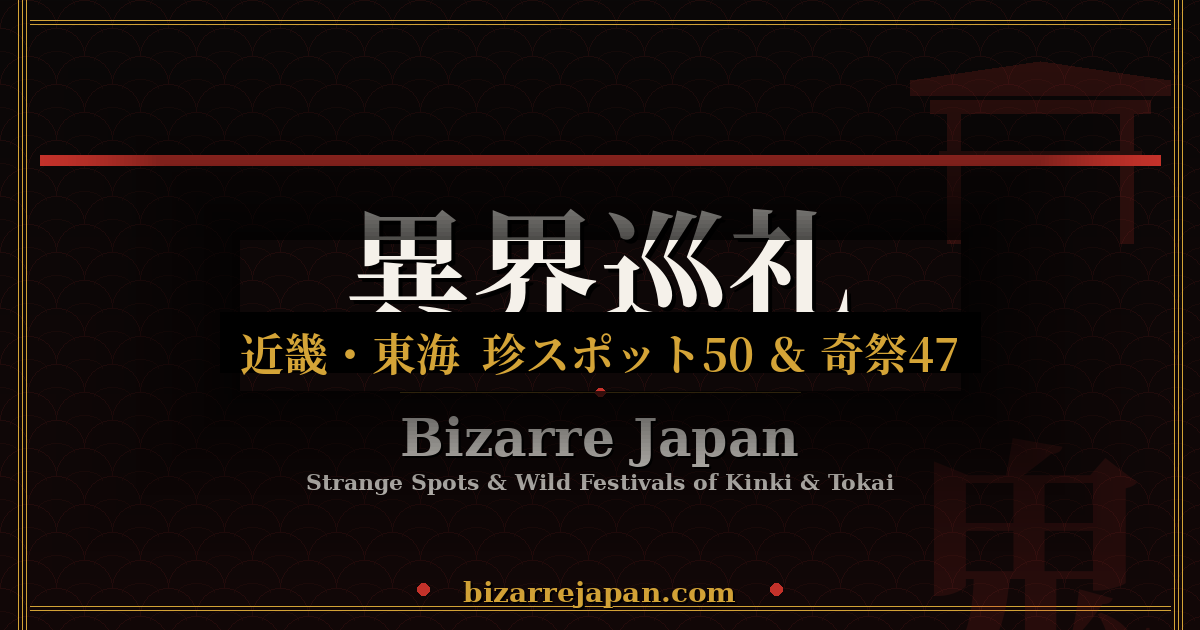
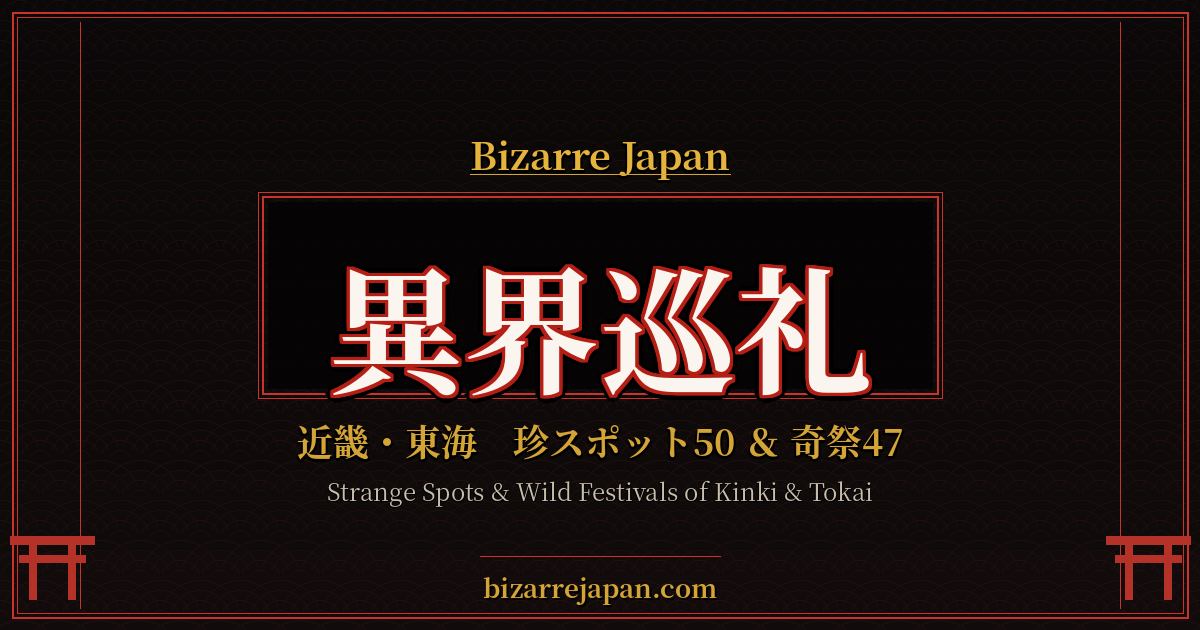
Polish: GitHub Issues form, press kit, links page, GA4 placeholder, OGP refinement

Changed region(s): [[0.0, 0.0, 1.0, 0.9952], [0.7708, 0.4222, 0.8017, 0.4524], [0.7708, 0.3619, 0.8017, 0.3921]]

diff --git a/links.html b/links.html
@@ -1,0 +1,107 @@
+<!DOCTYPE html>
+<html lang="ja">
+<head>
+<meta charset="UTF-8" />
+<meta name="viewport" content="width=device-width, initial-scale=1.0" />
+<title>関連サイト・コラボ — 異界巡礼 | Bizarre Japan</title>
+<meta name="description" content="異界巡礼が敬意を払うパートナーサイト・関連メディア・参考資料リンク集。Strange Japan travel allies and references." />
+<link rel="canonical" href="https://bizarrejapan.com/links.html" />
+<meta property="og:title" content="関連サイト・コラボ — 異界巡礼" />
+<meta property="og:description" content="異界巡礼の関連サイト・参考メディア集。" />
+<meta property="og:image" content="https://bizarrejapan.com/og-image.png" />
+<meta property="og:url" content="https://bizarrejapan.com/links.html" />
+<link rel="icon" type="image/png" sizes="32x32" href="favicon-32.png" />
+<link rel="apple-touch-icon" sizes="180x180" href="favicon-180.png" />
+<link rel="preconnect" href="https://fonts.googleapis.com" />
+<link rel="preconnect" href="https://fonts.gstatic.com" crossorigin />
+<link href="https://fonts.googleapis.com/css2?family=Shippori+Mincho:wght@400;600;800&family=Noto+Serif+JP:wght@400;700&family=Cinzel:wght@500;700&display=swap" rel="stylesheet" />
+<link rel="stylesheet" href="style.css" />
+<style>
+  .links-wrap{max-width:980px;margin:0 auto;padding:80px 24px 120px}
+  .links-wrap h1{font-size:clamp(2.4rem,5vw,4rem);margin:0 0 .4em;line-height:1.1}
+  .links-wrap h2{font-size:1.6rem;margin:48px 0 16px;padding-bottom:8px;border-bottom:1px solid var(--ink-border, #2a2424)}
+  .links-wrap p.lead{font-size:1.1rem;color:var(--ink-soft,#b0a8a4);margin-bottom:32px;line-height:1.7}
+  .link-card{display:block;padding:18px 20px;margin:12px 0;border:1px solid var(--ink-border, #2a2424);border-radius:6px;text-decoration:none;color:inherit;transition:all .2s}
+  .link-card:hover{border-color:var(--accent,#c83a3a);background:rgba(200,58,58,.04);transform:translateX(4px)}
+  .link-card .lc-title{font-weight:700;font-size:1.15rem;margin:0 0 4px}
+  .link-card .lc-desc{font-size:.95rem;color:var(--ink-soft,#b0a8a4);line-height:1.5;margin:0}
+  .link-card .lc-tag{display:inline-block;font-size:.75rem;background:rgba(200,58,58,.15);color:var(--accent,#c83a3a);padding:2px 8px;border-radius:3px;margin-left:8px;vertical-align:middle}
+  .links-back{display:inline-block;margin-top:40px;color:var(--accent,#c83a3a);text-decoration:none;font-weight:600}
+  .links-back:hover{text-decoration:underline}
+</style>
+</head>
+<body data-theme="dark">
+
+<div class="links-wrap">
+  <a class="links-back" href="/">← 異界巡礼トップへ戻る</a>
+  <h1>関連サイト・コラボ</h1>
+  <p class="lead">異界巡礼が敬意を払うパートナー、参考メディア、姉妹プロジェクト。<br>
+  Strange-Japan travel allies, sources of inspiration, and partner projects.</p>
+
+  <h2>姉妹サイト・コラボパートナー</h2>
+  <a class="link-card" href="https://www.tokyobs.jp/" target="_blank" rel="noopener">
+    <p class="lc-title">東京別視点ガイド <span class="lc-tag">先輩サイト</span></p>
+    <p class="lc-desc">珍スポット文化の元祖。松澤茂信氏による全国の異色観光スポット紹介。</p>
+  </a>
+  <a class="link-card" href="https://omatsurijapan.com/" target="_blank" rel="noopener">
+    <p class="lc-title">オマツリジャパン <span class="lc-tag">奇祭の宝庫</span></p>
+    <p class="lc-desc">日本全国の祭りデータベース。奇祭・伝統行事の網羅性で随一。</p>
+  </a>
+  <a class="link-card" href="https://www.atlasobscura.com/" target="_blank" rel="noopener">
+    <p class="lc-title">Atlas Obscura <span class="lc-tag">海外姉妹</span></p>
+    <p class="lc-desc">世界の珍しい場所を集めるグローバルなプラットフォーム。本サイトの英語版エントリの文体的なリファレンス。</p>
+  </a>
+
+  <h2>参考メディア・出典</h2>
+  <a class="link-card" href="https://commons.wikimedia.org/" target="_blank" rel="noopener">
+    <p class="lc-title">Wikimedia Commons</p>
+    <p class="lc-desc">サイト掲載写真の主たる出典。各画像のクレジットは詳細モーダル内に明記。</p>
+  </a>
+  <a class="link-card" href="https://ja.wikipedia.org/" target="_blank" rel="noopener">
+    <p class="lc-title">Wikipedia 日本語版</p>
+    <p class="lc-desc">スポット・祭礼の沿革記述における基礎資料。</p>
+  </a>
+  <a class="link-card" href="https://www.japanvisitor.com/" target="_blank" rel="noopener">
+    <p class="lc-title">Japan Visitor</p>
+    <p class="lc-desc">英語圏向け日本観光情報サイト。地方の細かい祭礼情報も豊富。</p>
+  </a>
+
+  <h2>地域パートナー（亀山・三重・東海）</h2>
+  <a class="link-card" href="https://www.kameyama-cci.or.jp/" target="_blank" rel="noopener">
+    <p class="lc-title">亀山商工会議所</p>
+    <p class="lc-desc">三重県亀山市を中心とした商工業振興団体。本サイト運営者は青年部（YEG）会長。</p>
+  </a>
+  <a class="link-card" href="https://www.kankomie.or.jp/" target="_blank" rel="noopener">
+    <p class="lc-title">観光三重</p>
+    <p class="lc-desc">三重県観光連盟の公式サイト。県内観光資源の総合インデックス。</p>
+  </a>
+  <a class="link-card" href="https://www.aichi-now.jp/" target="_blank" rel="noopener">
+    <p class="lc-title">Aichi Now</p>
+    <p class="lc-desc">愛知県観光協会公式。田縣神社など本サイト掲載スポットの公式情報源。</p>
+  </a>
+
+  <h2>研究・学術リソース</h2>
+  <a class="link-card" href="https://nichibun.ac.jp/" target="_blank" rel="noopener">
+    <p class="lc-title">国際日本文化研究センター（日文研）</p>
+    <p class="lc-desc">怪異・妖怪・民俗データベースを公開。本サイトの民俗学的記述の参考。</p>
+  </a>
+  <a class="link-card" href="https://www.rekihaku.ac.jp/" target="_blank" rel="noopener">
+    <p class="lc-title">国立歴史民俗博物館</p>
+    <p class="lc-desc">日本の祭礼・年中行事の体系的研究機関。</p>
+  </a>
+
+  <h2>プレス・メディア向け</h2>
+  <a class="link-card" href="press-kit.md" target="_blank">
+    <p class="lc-title">📰 プレスキット（英語） / Press Kit</p>
+    <p class="lc-desc">国際メディア向けに整理されたサイト概要・取材向けストーリーアングル・素材。</p>
+  </a>
+  <a class="link-card" href="https://github.com/tydmthr/kinki-tokai-chinspot/issues/new" target="_blank" rel="noopener">
+    <p class="lc-title">取材・コラボ依頼 / Press Inquiries</p>
+    <p class="lc-desc">GitHub Issues 経由でお気軽にご連絡ください。</p>
+  </a>
+
+  <a class="links-back" href="/">← 異界巡礼トップへ戻る</a>
+</div>
+
+</body>
+</html>

diff --git a/index.html b/index.html
@@ -88,6 +88,19 @@
 <link rel="stylesheet" href="https://cdn.jsdelivr.net/npm/@phosphor-icons/web@2.1.1/src/fill/style.css" />
 
 <link rel="stylesheet" href="style.css" />
+
+<!-- Google Analytics 4 (GA4) - 有効化するには下記の G-XXXXXXXXXX を実際の Measurement ID に置き換えてください -->
+<!--
+<script async src="https://www.googletagmanager.com/gtag/js?id=G-XXXXXXXXXX"></script>
+<script>
+  window.dataLayer = window.dataLayer || [];
+  function gtag(){dataLayer.push(arguments);}
+  gtag('js', new Date());
+  gtag('config', 'G-XXXXXXXXXX', { 'anonymize_ip': true });
+</script>
+-->
+
+<!-- Google Search Console: HTMLタグ認証する場合、ここに <meta name="google-site-verification" content="xxxxx" /> を貼ってください -->
 </head>
 <body data-theme="dark" data-lang="ja">
 
@@ -298,7 +311,7 @@
     <div class="footer-col">
       <h4 data-i18n="footer.share">情報提供・寄稿</h4>
       <p data-i18n-html="footer.shareBody">あなたの知る奇異な場所、参加した奇祭の体験談を募集しています。</p>
-      <a class="footer-cta" id="submitForm" href="#" target="_blank" rel="noopener"><i class="ph ph-paper-plane-tilt"></i><span data-i18n="footer.submit">情報を寄せる</span></a>
+      <a class="footer-cta" id="submitForm" href="https://github.com/tydmthr/kinki-tokai-chinspot/issues/new?labels=spot-submission&template=spot-submission.md&title=%5B%E6%96%B0%E3%82%B9%E3%83%9D%E3%83%83%E3%83%88%5D+" target="_blank" rel="noopener"><i class="ph ph-paper-plane-tilt"></i><span data-i18n="footer.submit">情報を寄せる</span></a>
     </div>
     <div class="footer-col">
       <h4 data-i18n="footer.collabs">関連サイト</h4>
@@ -307,6 +320,8 @@
         <li><a href="https://omatsurijapan.com/" target="_blank" rel="noopener">オマツリジャパン</a></li>
         <li><a href="https://www.atlasobscura.com/" target="_blank" rel="noopener">Atlas Obscura</a></li>
         <li><a href="https://commons.wikimedia.org/" target="_blank" rel="noopener">Wikimedia Commons</a></li>
+        <li><a href="links.html">→ 関連サイト一覧 / All Links</a></li>
+        <li><a href="press-kit.md" target="_blank">📰 Press Kit (EN)</a></li>
       </ul>
     </div>
   </div>

diff --git a/app.js b/app.js
@@ -831,18 +831,11 @@ function handleUrlParams() {
 }
 
 // ============ Submit Form Link ============
-const submitFormUrl = 'https://docs.google.com/forms/d/e/PLACEHOLDER/viewform'; // 後で本物のFormsに置き換え
+// GitHub Issues template-based submission (no auth wall, multilingual, version-controlled)
+const submitFormUrl = 'https://github.com/tydmthr/kinki-tokai-chinspot/issues/new?labels=spot-submission&template=spot-submission.md&title=%5B%E6%96%B0%E3%82%B9%E3%83%9D%E3%83%83%E3%83%88%5D+';
 const submitBtn = document.getElementById('submitForm');
 if (submitBtn) {
   submitBtn.href = submitFormUrl;
-  submitBtn.addEventListener('click', e => {
-    if (submitFormUrl.includes('PLACEHOLDER')) {
-      e.preventDefault();
-      const subject = encodeURIComponent('[Bizarre Japan] 情報提供 / Submission');
-      const body = encodeURIComponent('発見した珍スポット・奇祭の情報を以下にお書きください：\n\n名称：\n所在地：\n概要：\n参考URL：\n\n---\nWhat strange spot or festival did you find?\n\nName:\nLocation:\nDescription:\nReference URL:\n');
-      location.href = `mailto:bizarrejapan@example.com?subject=${subject}&body=${body}`;
-    }
-  });
 }
 
 // ============ Refresh hook for language toggle ============

diff --git a/press-kit.md b/press-kit.md
@@ -1,0 +1,111 @@
+# Bizarre Japan / 異界巡礼 — Press Kit
+
+> **Strange Spots & Wild Festivals of Kinki & Tokai, Japan**
+> An independent travel guide curating 50 of the most bizarre destinations and 47 of the wildest folk festivals in central Japan.
+
+**Website:** [bizarrejapan.com](https://bizarrejapan.com/)
+**Languages:** Japanese / English
+**Contact:** via GitHub Issues — [github.com/tydmthr/kinki-tokai-chinspot](https://github.com/tydmthr/kinki-tokai-chinspot)
+**Status:** Independent, non-commercial, ad-free
+
+---
+
+## What is Bizarre Japan?
+
+Bizarre Japan is a curated atlas of Japan's most surreal, sacred, profane, and unforgettable places — the kind of destinations that *aren't* in your average guidebook. From the phallic shrines of Aichi to the man-eating turtle festivals of Kyoto, from underground pyramids in Nara to a UFO landing pad in Mie, the site documents the country's hidden landscape of folk religion, B-grade roadside attractions, post-war ruins, and ancient agricultural fertility rites that survive into the 21st century.
+
+It is the work of an independent curator based in **Kameyama, Mie Prefecture**, drawing on deep local knowledge of Kinki and Tokai region culture.
+
+---
+
+## Editorial Stance
+
+- **Reverence over snark.** Even the strangest sites are treated as living cultural heritage, not as curiosities for ridicule.
+- **Local voice.** Curated by a resident of central Japan with insider perspective on regional identity, dialect, and customs.
+- **No paid placements, no sponsored content, no affiliate links.**
+- **Bilingual from day one.** Every spot and festival has both a Japanese and a literary English entry written in an Atlas Obscura–inspired voice.
+
+---
+
+## What Makes It Different
+
+| | Bizarre Japan | Typical travel site |
+|---|---|---|
+| Focus | Strange, sacred, surreal — the *yō no naka* underbelly | Top-10 photogenic spots |
+| Voice | Literary, anthropological | Listicle |
+| Coverage | 50 spots + 47 festivals (97 entries) | Variable |
+| Geography | **Hyper-local**: Kinki + Tokai only | National, broad-brush |
+| Source language | Japanese-native, English-translated | English-first |
+| Festivals | Includes precise dates, ritual context, danger ratings | Often omitted |
+
+---
+
+## Coverage Highlights
+
+### Spots (excerpt)
+- **田縣神社** (Aichi) — The annual penis festival drawing 100,000 visitors and a 2.5m wooden phallus paraded through town
+- **金山巨石群** (Gifu) — Solar-aligned megalithic structure rumored to be a Jōmon-era astronomical observatory
+- **池田町UFO物産館** (Hyogo) — Government-built UFO contact center, complete with landing pad and ESP scanner
+- **椿大神社の異界石** (Mie) — Sacred grove ringed by stones said to mark the boundary of the spirit world
+
+### Festivals (excerpt)
+- **国府宮はだか祭** (Aichi, Feb) — 9,000 men in loincloths fight to touch the "shin-otoko" — touching him transfers your bad luck
+- **吉田の火祭り** (Yamanashi, Aug — included by extension) — 3-meter pine torches lit along an entire town
+- **おんだ祭** (Nara, Feb) — Public mock-fertility ritual at Asuka Shrine, performed for 1,300 years
+- **無言詣り** (Kyoto, Aug) — Silent night-pilgrimage at Yasaka — speak one word and your wish dies
+
+---
+
+## Visual & Editorial Assets Available
+
+- 1200×630 OGP card (CC-BY) → [og-image.png](https://bizarrejapan.com/og-image.png)
+- Curator portrait (on request)
+- 50 + 47 entry photos (Wikimedia Commons, properly credited)
+- Pre-written 200-word and 500-word feature briefs in JP/EN
+- Interactive map embed code (on request)
+- Pre-cleared interview availability for journalists
+
+---
+
+## Story Angles for International Editors
+
+1. **"The Last Curators of Folk Japan"** — How an executive at a small sewerage-maintenance firm, in a regional city no one has heard of, is preserving a vanishing inventory of indigenous weirdness.
+2. **"Why Japan's Most Sacred Festivals Are Also Its Strangest"** — The continuity between Shinto fertility rites, mountain ascetic pilgrimage, and rural carnival.
+3. **"Atlas Obscura, but Hyperlocal"** — The case for one-region travel guides over national ones.
+4. **"The Bizarrest Itinerary You Can Drive in a Weekend"** — A 6-route pilgrimage map (already published on the site).
+
+---
+
+## Quick Facts
+
+- **Launched:** 2026
+- **Entries:** 97 (50 spots + 47 festivals)
+- **Routes:** 6 curated pilgrimage itineraries (half-day to 3-day)
+- **Languages:** JP / EN
+- **Tech stack:** Static site, MapLibre GL, vanilla JS — no tracking, no cookies
+- **License of original text:** CC-BY 4.0 — feel free to quote with attribution
+
+---
+
+## Curator Bio
+
+**Motohiro Toyoda (豊田 元裕)** — Executive at a family-run construction and sewerage-maintenance firm in Kameyama, Mie Prefecture (founded 1962). President of the Kameyama Junior Chamber of Commerce (YEG). Photographer, music producer, skateboarder. Has spent over a decade quietly logging the strange-and-sacred sites of central Japan that mainstream guidebooks systematically overlook.
+
+> "There's a Japan that ends at the last paved road, and another Japan that begins right after. This site is for the second one."
+
+---
+
+## Press Inquiries
+
+For interviews, image licensing, embed permissions, or story collaboration, please open an issue at the [GitHub repository](https://github.com/tydmthr/secret/kinki-tokai-chinspot/issues) or reach out via the contact form on [bizarrejapan.com](https://bizarrejapan.com/).
+
+We are particularly happy to support:
+- Travel-section features
+- Documentary research
+- Academic anthropology / folklore citations
+- Museum / gallery curation
+- Foreign-language adaptations
+
+---
+
+*Bizarre Japan / 異界巡礼 — © 2026. Original editorial content licensed CC-BY 4.0.*

diff --git a/.github/ISSUE_TEMPLATE/spot-submission.md b/.github/ISSUE_TEMPLATE/spot-submission.md
@@ -1,0 +1,35 @@
+---
+name: 新スポット・奇祭の情報提供 / Spot or Festival Submission
+about: 知っている珍スポット・奇祭の情報を寄せる / Submit a strange spot or wild festival
+title: '[新スポット] '
+labels: spot-submission
+assignees: tydmthr
+---
+
+## 基本情報 / Basic Info
+- **名称 (Name in Japanese):**
+- **英語名 (Name in English, optional):**
+- **所在地 (Location, prefecture / city):**
+- **緯度経度 (Lat, Lng - わかれば):**
+- **分類 (Category):** 珍スポット / 奇祭 / 廃墟 / 心霊 / その他
+
+## 説明 / Description
+（その場所がなぜ「異界」なのか、見どころは何か、簡単に教えてください）
+
+## アクセス / Access
+- **最寄駅 / Nearest station:**
+- **駐車場 / Parking:**
+- **危険度 (1-5) / Danger level (1=safe, 5=高危険):**
+- **訪問時の注意 / Warnings:**
+
+## 写真・参考リンク / Photos & References
+- 公式サイト・記事・動画など
+- Wikimedia Commons へのリンクがあれば歓迎
+
+## 体験談 (任意) / Personal Experience (optional)
+（実際に行った時の感想・エピソード）
+
+---
+
+ご投稿ありがとうございます。内容を確認のうえ、サイトに反映させていただきます。
+Thank you for contributing. We will review and add the entry to the site.
